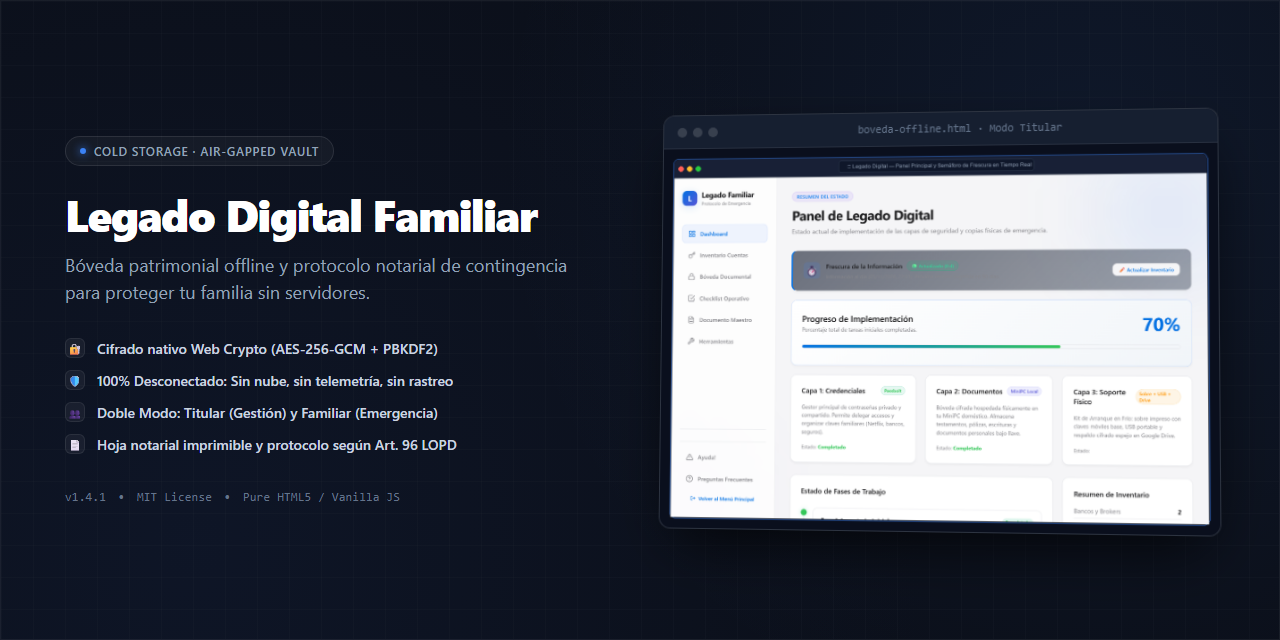
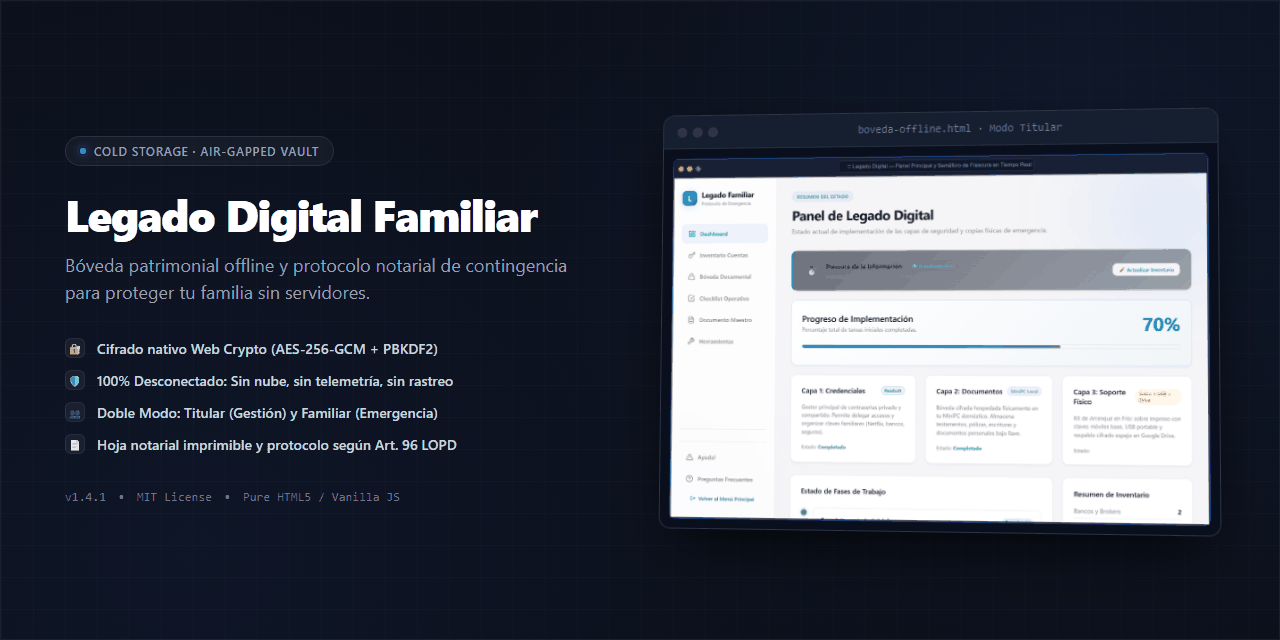
feat(seo): optimize social preview to 151KB and update OG tags with secure_url and MIME type for WhatsApp

diff --git a/APP/index.html b/APP/index.html
@@ -11,20 +11,23 @@
     <link rel="icon" type="image/png" sizes="192x192" href="icon.png">
     <link rel="apple-touch-icon" href="icon.png">
     <title>Legado Digital Familiar - Bóveda Offline</title>
-    <!-- Open Graph / WhatsApp / Telegram Social Previews -->
+        <!-- Open Graph / WhatsApp / Telegram Social Previews -->
     <meta property="og:type" content="website">
     <meta property="og:url" content="https://andresgonzalezperez-hash.github.io/legado-digital-familiar/">
     <meta property="og:title" content="🛡 Legado Digital Familiar · Bóveda Offline-First">
-    <meta property="og:description" content="Infraestructura soberana y desconectada en HTML puro y Web Crypto para proteger tu patrimonio, claves y contingencia familiar sin servidores.">
-    <meta property="og:image" content="https://raw.githubusercontent.com/andresgonzalezperez-hash/legado-digital-familiar/main/docs/social-preview.png">
+    <meta property="og:description" content="Bóveda patrimonial offline y protocolo notarial de contingencia para proteger tu familia sin servidores (Web Crypto AES-256-GCM).">
+    <meta property="og:image" content="https://andresgonzalezperez-hash.github.io/legado-digital-familiar/docs/social-preview.png">
+    <meta property="og:image:secure_url" content="https://andresgonzalezperez-hash.github.io/legado-digital-familiar/docs/social-preview.png">
+    <meta property="og:image:type" content="image/png">
     <meta property="og:image:width" content="1280">
     <meta property="og:image:height" content="640">
+    <meta property="og:site_name" content="Legado Digital Familiar">
     
     <!-- Twitter Card -->
     <meta name="twitter:card" content="summary_large_image">
     <meta name="twitter:title" content="🛡 Legado Digital Familiar · Bóveda Offline-First">
-    <meta name="twitter:description" content="Infraestructura soberana y desconectada en HTML puro y Web Crypto para proteger tu patrimonio y claves familiares sin servidores.">
-    <meta name="twitter:image" content="https://raw.githubusercontent.com/andresgonzalezperez-hash/legado-digital-familiar/main/docs/social-preview.png">
+    <meta name="twitter:description" content="Bóveda patrimonial offline y protocolo notarial de contingencia para proteger tu familia sin servidores (Web Crypto AES-256-GCM).">
+    <meta name="twitter:image" content="https://andresgonzalezperez-hash.github.io/legado-digital-familiar/docs/social-preview.png">
     <link rel="stylesheet" href="index.css?v=7">
     <style>
         .badge-freshness {

diff --git a/index.html b/index.html
@@ -6,20 +6,23 @@
     <meta http-equiv="refresh" content="0; url=APP/index.html" />
     <title>Legado Digital Familiar · Digital Legacy Vault</title>
     
-    <!-- Open Graph / WhatsApp / Telegram Social Previews -->
+        <!-- Open Graph / WhatsApp / Telegram Social Previews -->
     <meta property="og:type" content="website">
     <meta property="og:url" content="https://andresgonzalezperez-hash.github.io/legado-digital-familiar/">
     <meta property="og:title" content="🛡 Legado Digital Familiar · Bóveda Offline-First">
-    <meta property="og:description" content="Infraestructura soberana y desconectada (Air-Gapped) en HTML puro y Web Crypto para organizar y proteger tu patrimonio, claves y contingencia familiar sin servidores.">
-    <meta property="og:image" content="https://raw.githubusercontent.com/andresgonzalezperez-hash/legado-digital-familiar/main/docs/social-preview.png">
+    <meta property="og:description" content="Bóveda patrimonial offline y protocolo notarial de contingencia para proteger tu familia sin servidores (Web Crypto AES-256-GCM).">
+    <meta property="og:image" content="https://andresgonzalezperez-hash.github.io/legado-digital-familiar/docs/social-preview.png">
+    <meta property="og:image:secure_url" content="https://andresgonzalezperez-hash.github.io/legado-digital-familiar/docs/social-preview.png">
+    <meta property="og:image:type" content="image/png">
     <meta property="og:image:width" content="1280">
     <meta property="og:image:height" content="640">
+    <meta property="og:site_name" content="Legado Digital Familiar">
     
     <!-- Twitter Card -->
     <meta name="twitter:card" content="summary_large_image">
     <meta name="twitter:title" content="🛡 Legado Digital Familiar · Bóveda Offline-First">
-    <meta name="twitter:description" content="Infraestructura soberana y desconectada (Air-Gapped) en HTML puro y Web Crypto para proteger tu patrimonio y claves familiares sin servidores.">
-    <meta name="twitter:image" content="https://raw.githubusercontent.com/andresgonzalezperez-hash/legado-digital-familiar/main/docs/social-preview.png">
+    <meta name="twitter:description" content="Bóveda patrimonial offline y protocolo notarial de contingencia para proteger tu familia sin servidores (Web Crypto AES-256-GCM).">
+    <meta name="twitter:image" content="https://andresgonzalezperez-hash.github.io/legado-digital-familiar/docs/social-preview.png">
     <style>
         body {
             background-color: #0b0f19;
